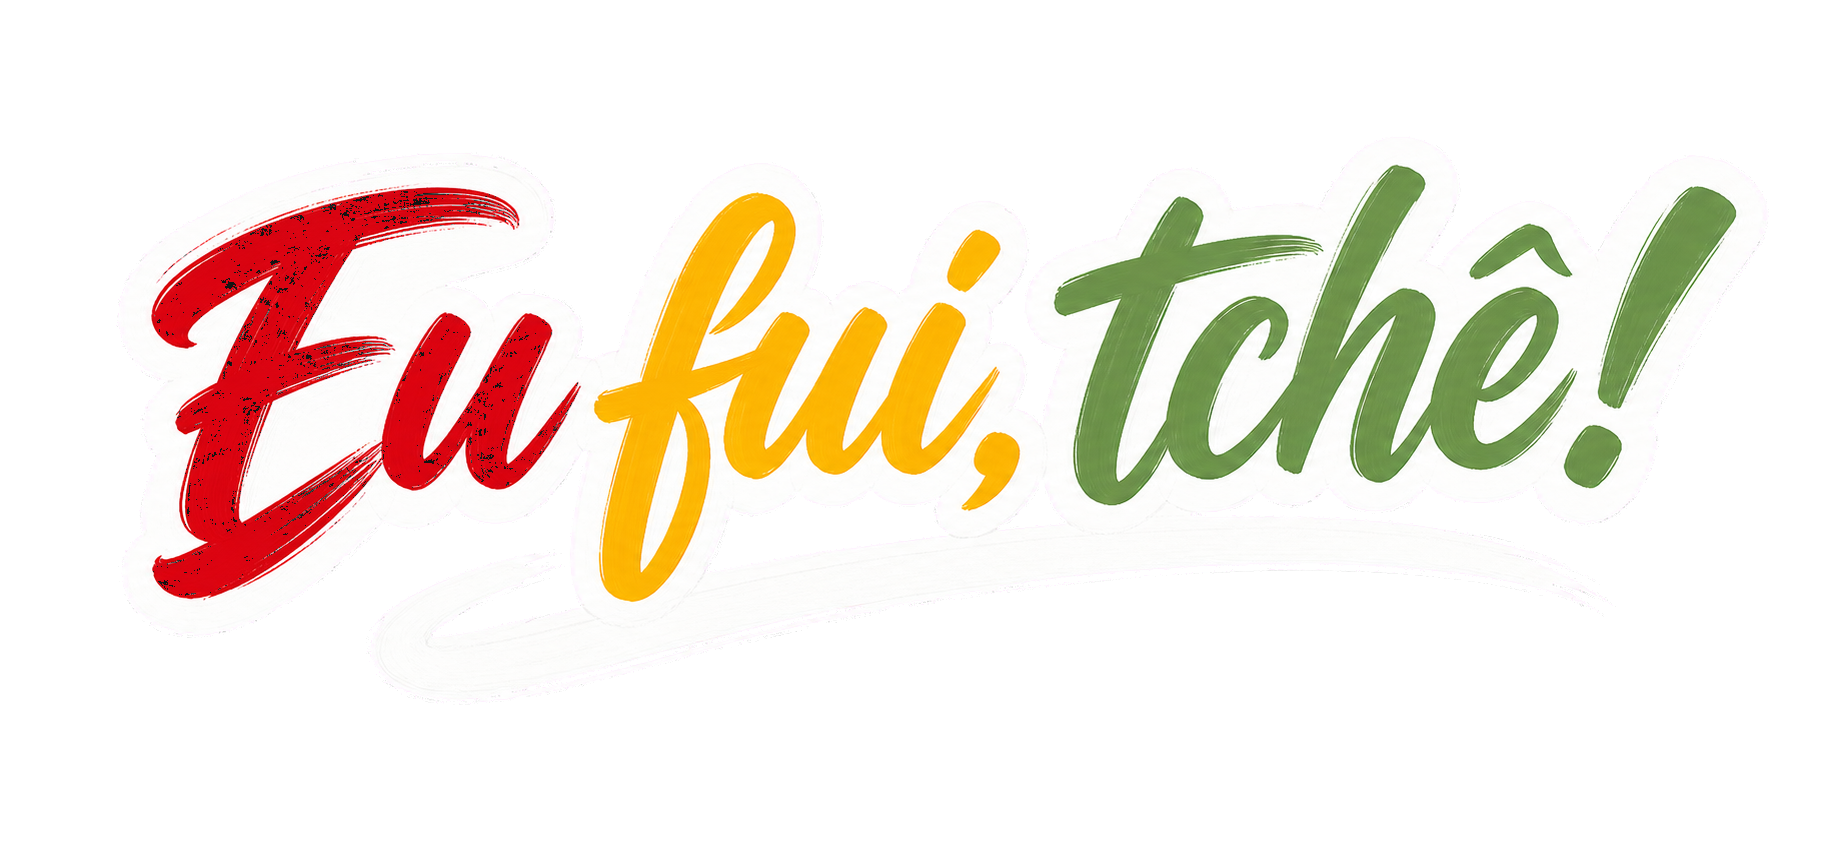
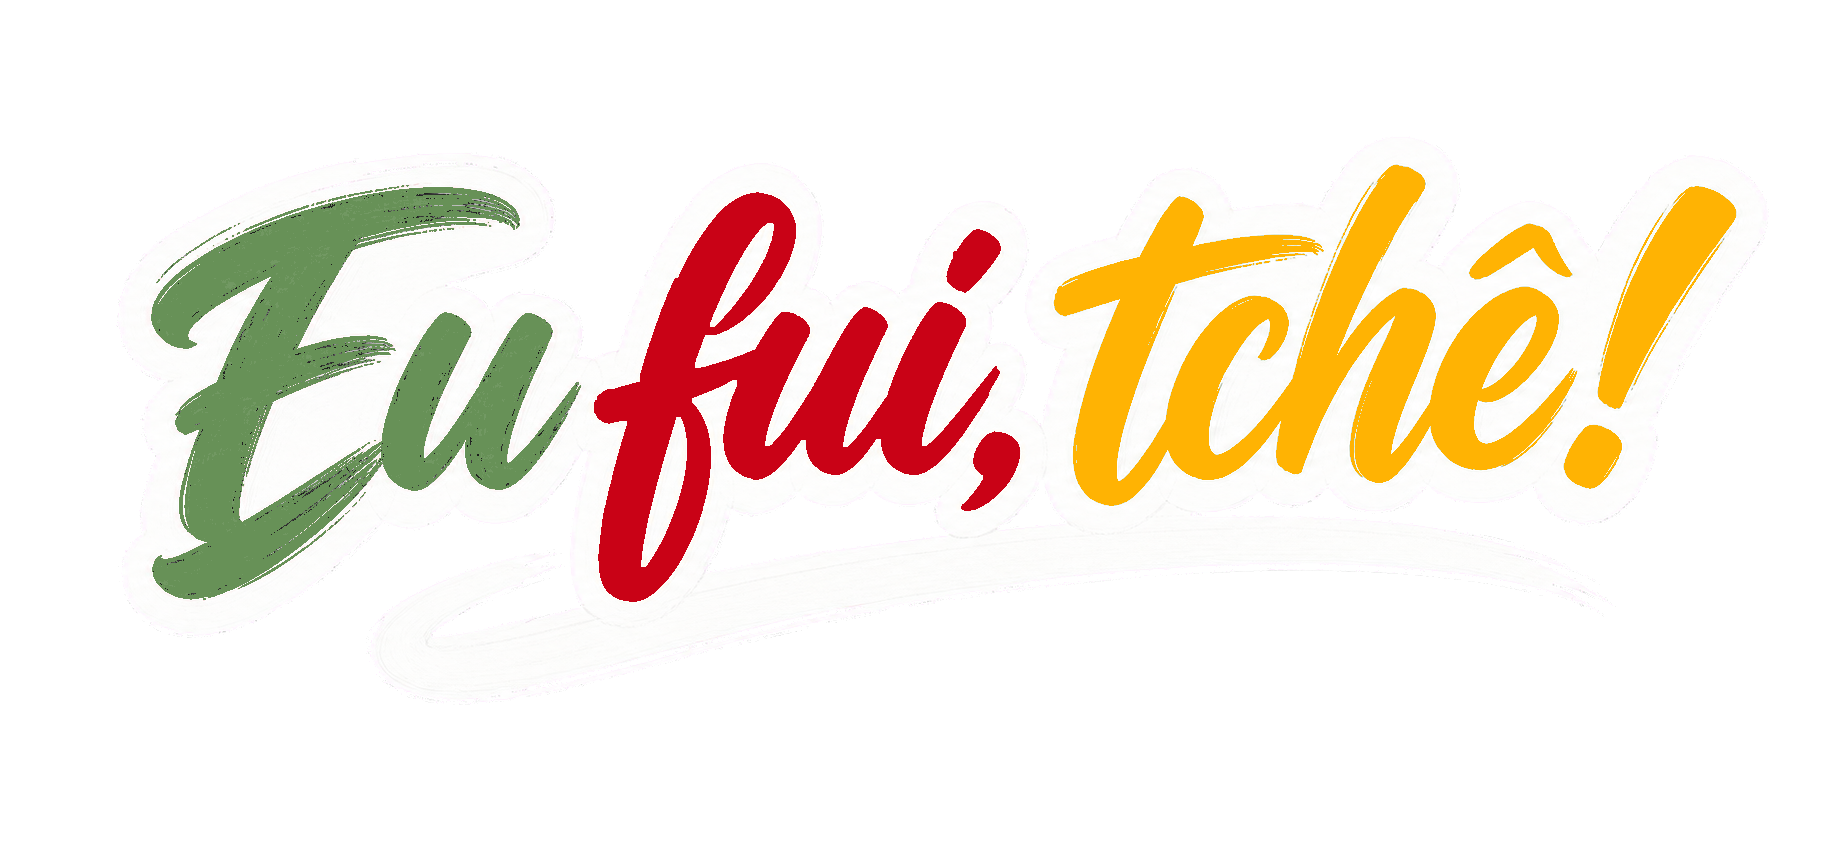
fix: correct lettering color order

Changed region(s): [[0.0625, 0.181, 0.9682, 0.6937]]

diff --git a/src/lib/brand-asset.test.ts b/src/lib/brand-asset.test.ts
@@ -1,0 +1,47 @@
+import sharp from "sharp";
+import { describe, expect, it } from "vitest";
+import { BRAND } from "./brand";
+
+const assetPath = "public/wticifes2026-phrase-brush.png";
+
+function rgb(hex: string): readonly [number, number, number] {
+  return [
+    Number.parseInt(hex.slice(1, 3), 16),
+    Number.parseInt(hex.slice(3, 5), 16),
+    Number.parseInt(hex.slice(5, 7), 16),
+  ];
+}
+
+describe("cores do lettering aprovado", () => {
+  it("usa verde, vermelho e amarelo nesta ordem e mantém o vermelho sem pontos pretos", async () => {
+    const image = await sharp(assetPath).ensureAlpha().raw().toBuffer({ resolveWithObject: true });
+    const regions = [
+      { start: 0, end: 0.325, color: rgb(BRAND.green), minimum: 50_000 },
+      { start: 0.325, end: 0.575, color: rgb(BRAND.red), minimum: 50_000, cleanRed: true },
+      { start: 0.575, end: 1, color: rgb(BRAND.yellow), minimum: 70_000 },
+    ] as const;
+
+    for (const region of regions) {
+      let matching = 0;
+      let darkOpaque = 0;
+      const firstX = Math.floor(image.info.width * region.start);
+      const lastX = Math.floor(image.info.width * region.end);
+
+      for (let y = 0; y < image.info.height; y += 1) {
+        for (let x = firstX; x < lastX; x += 1) {
+          const offset = (y * image.info.width + x) * 4;
+          const red = image.data[offset] ?? 0;
+          const green = image.data[offset + 1] ?? 0;
+          const blue = image.data[offset + 2] ?? 0;
+          const alpha = image.data[offset + 3] ?? 0;
+          if (alpha < 200) continue;
+          if (red === region.color[0] && green === region.color[1] && blue === region.color[2]) matching += 1;
+          if (Math.max(red, green, blue) < 50) darkOpaque += 1;
+        }
+      }
+
+      expect(matching).toBeGreaterThan(region.minimum);
+      if ("cleanRed" in region) expect(darkOpaque).toBe(0);
+    }
+  });
+});

diff --git a/tests/e2e/public-and-admin.spec.ts b/tests/e2e/public-and-admin.spec.ts
@@ -21,7 +21,11 @@ test("a aplicação standalone apresenta upload direto", async ({ page }) => {
   });
 
   await page.goto("/");
-  await expect(page.getByRole("heading", { name: "Eu fui, tchê!" })).toBeVisible();
+  const slogan = page.getByRole("heading", { name: "Eu fui, tchê!" });
+  await expect(slogan).toBeVisible();
+  await expect(slogan.locator("span")).toHaveCSS("color", "rgb(103, 145, 87)");
+  await expect(slogan.locator("strong")).toHaveCSS("color", "rgb(201, 2, 22)");
+  await expect(slogan.locator("em")).toHaveCSS("color", "rgb(255, 179, 3)");
   await expect(page.getByRole("heading", { name: "Crie sua foto" })).toBeVisible();
   const fileInput = page.locator('input[type="file"]');
   await expect(fileInput).toHaveAttribute("accept", "image/jpeg,image/png,image/webp");

diff --git a/src/lib/brand.ts b/src/lib/brand.ts
@@ -19,4 +19,4 @@ export const OFFICIAL_LOGO_SHA256 =
 
 /** Lettering artístico aprovado (versão 5), mantido como ativo estático e imutável. */
 export const OFFICIAL_PHRASE_SHA256 =
[2 lines of base64/hex data omitted]

diff --git a/src/app/globals.css b/src/app/globals.css
@@ -71,15 +71,15 @@ h1 {
 }
 
 h1 span {
-  color: var(--red);
+  color: var(--green);
 }
 
 h1 strong {
-  color: var(--yellow);
+  color: var(--red);
 }
 
 h1 em {
-  color: var(--green);
+  color: var(--yellow);
   font-style: italic;
 }
 

diff --git a/README.md b/README.md
@@ -18,7 +18,7 @@ flowchart LR
 
 A Vercel limita corpos de Functions a 4,5 MB. Para aceitar 12 MB sem expor credenciais, o navegador usa o fluxo oficial de Client Upload do Vercel Blob. A entrada fica no store privado pelo menor tempo possível: o servidor valida a reserva, lê no máximo 12 MB e apaga o objeto antes de executar o Sharp. Uploads abandonados tornam-se elegíveis após uma hora e são removidos no ciclo horário seguinte. Somente o JPEG final é retido.
 
-O compositor preserva toda a foto, respeita EXIF, nunca recorta nem amplia, reduz apenas por segurança/desempenho e limita a área fotográfica a 2400 × 4000. O logo fica à esquerda e o lettering artístico à direita, sobre uma tarja branca translúcida dentro da própria foto. A saída é JPEG sRGB qualidade 90 sem metadados. Caso um resultado ultrapasse o limite seguro de resposta da Function, ele é reduzido deterministicamente, sem distorção e ainda em qualidade 90.
+O compositor preserva toda a foto, respeita EXIF, nunca recorta nem amplia, reduz apenas por segurança/desempenho e limita a área fotográfica a 2400 × 4000. O logo fica à esquerda e o lettering artístico à direita, com “Eu” verde, “fui,” vermelho e “tchê!” amarelo, sobre uma tarja branca translúcida dentro da própria foto. A saída é JPEG sRGB qualidade 90 sem metadados. Caso um resultado ultrapasse o limite seguro de resposta da Function, ele é reduzido deterministicamente, sem distorção e ainda em qualidade 90.
 
 ## Estados e publicação
 
